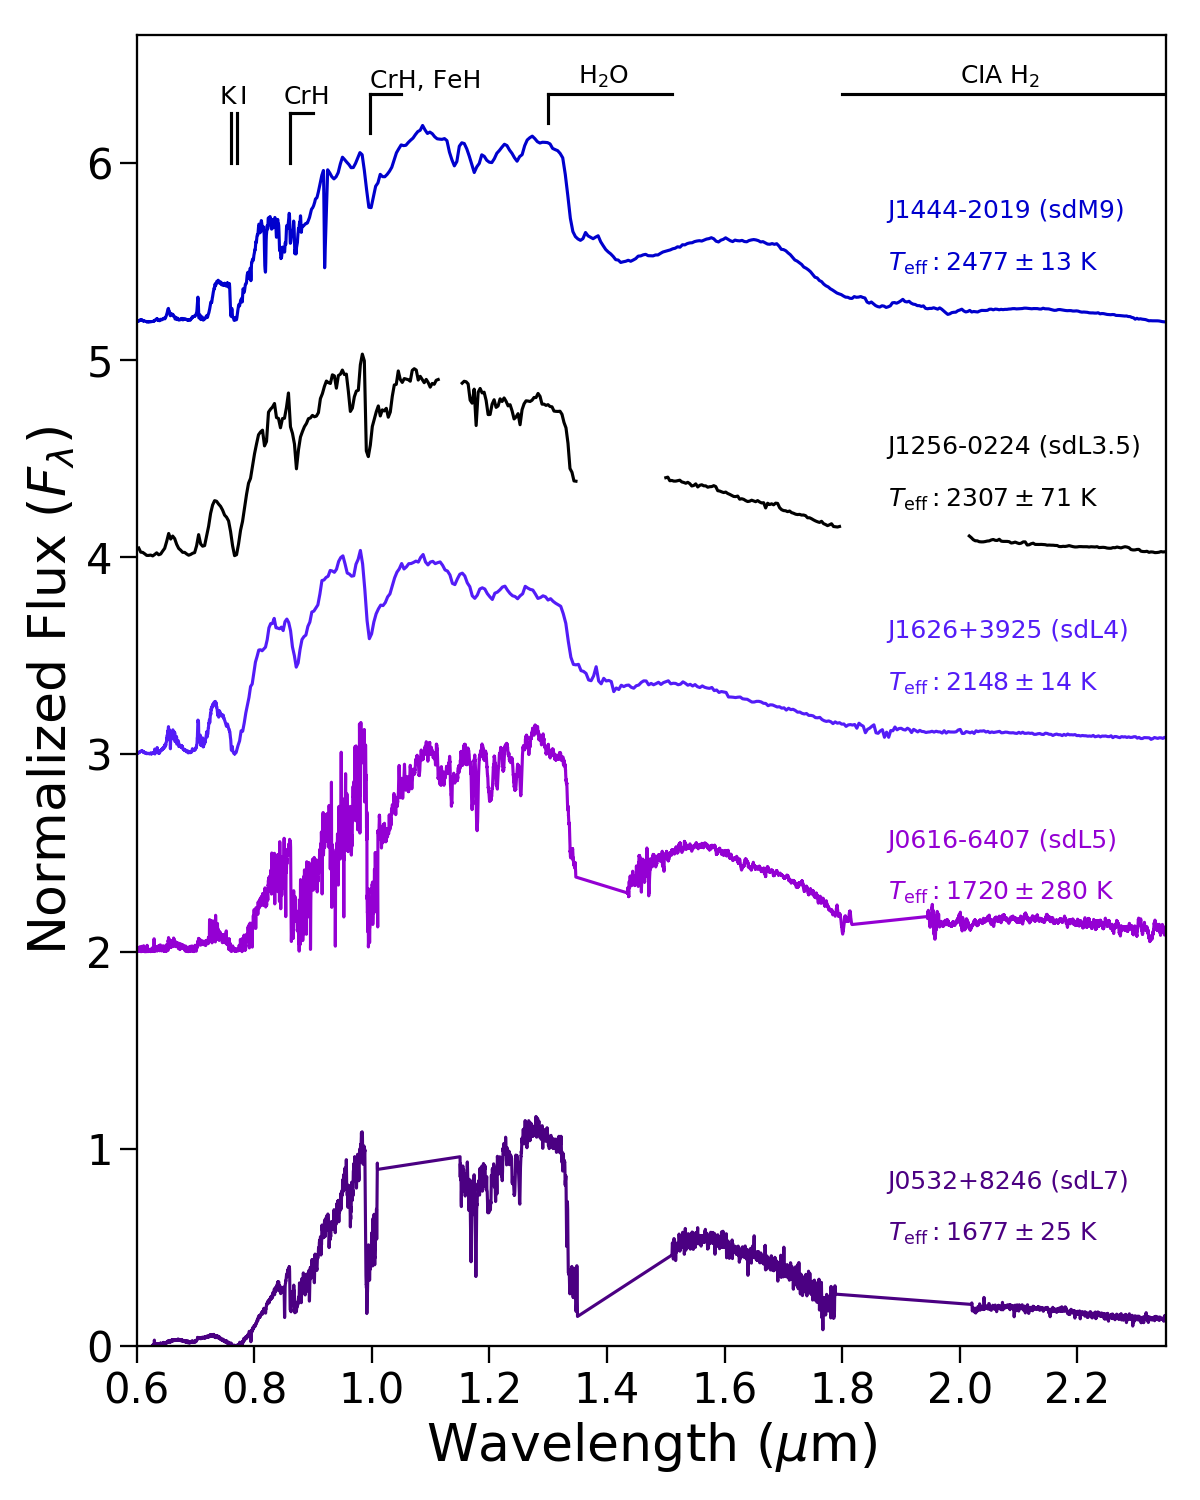
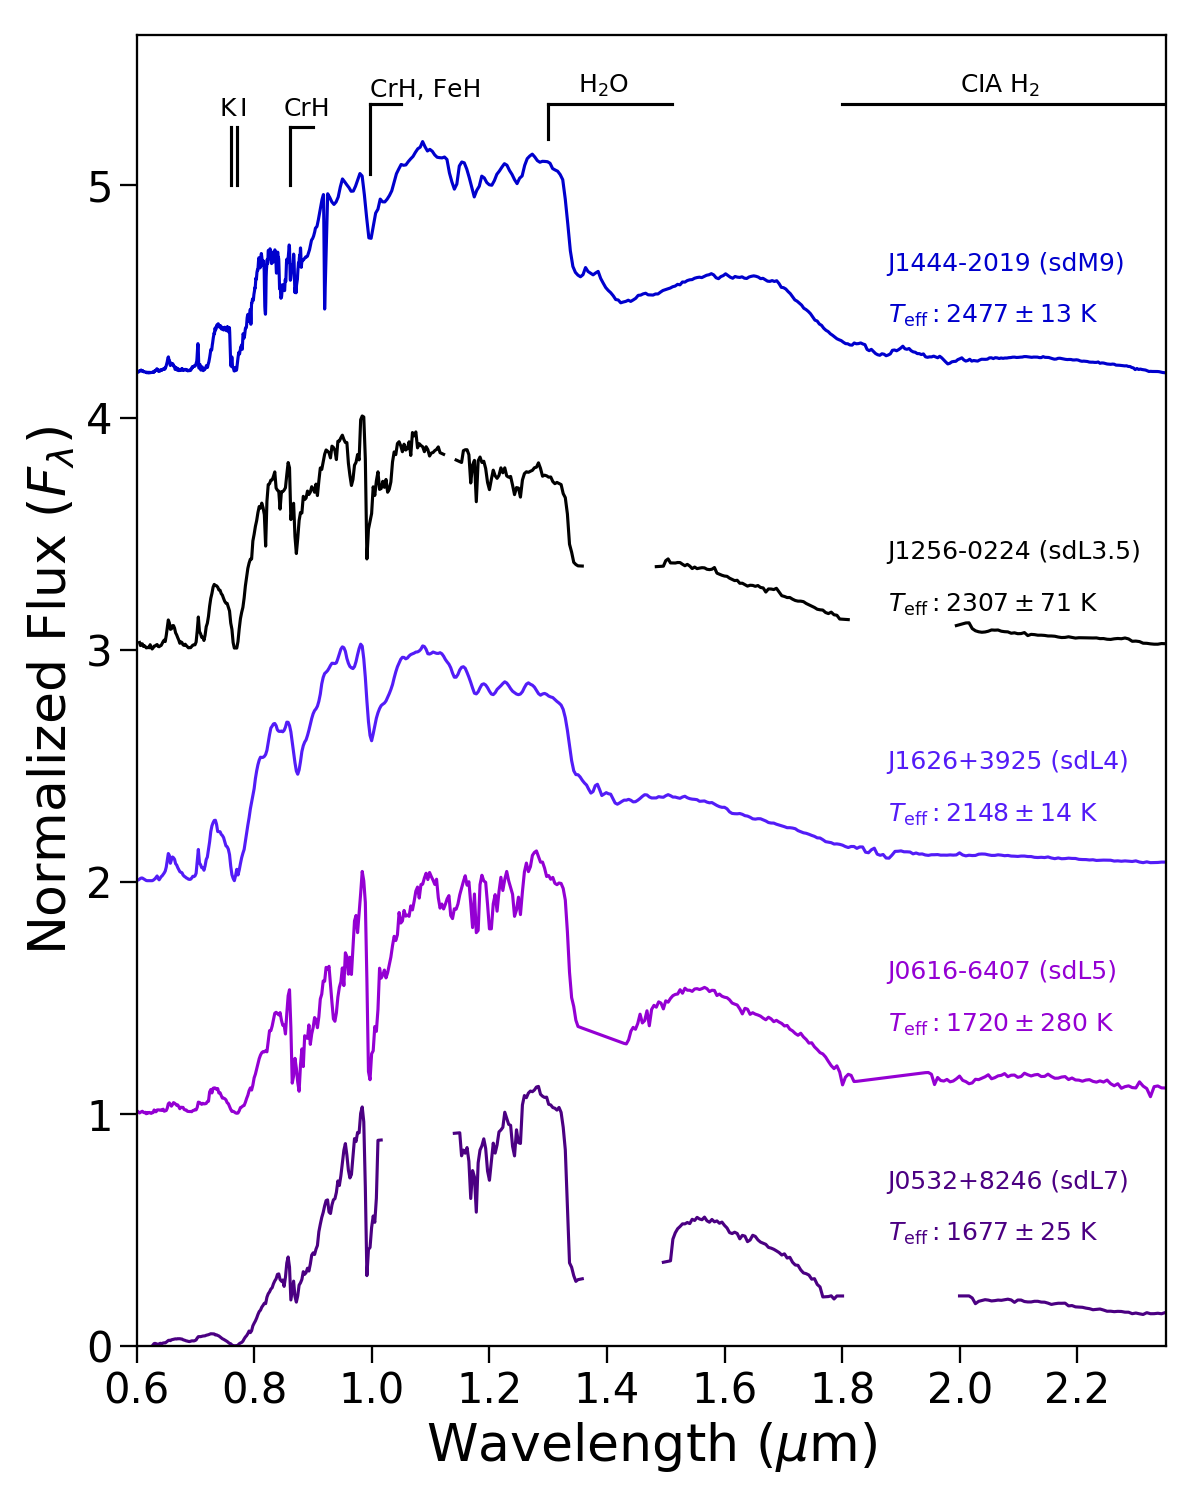
Final smoothed paths added

diff --git a/FullspectraSubdwarfs.py b/FullspectraSubdwarfs.py
@@ -8,38 +8,40 @@ import numpy as np
 # Read  all in as pandas dataframes
 # None for 1256-1408, and 1425 can't be normalized in this region, choosing to show HD instead.
 
-df_1256 = pd.read_csv('Data/Smoothed_data/Subdwarfs_overall_smoothed/correctpi1256-0224 (L3.5sd) SED_smoothed.txt',
-                      sep=",", comment='#', header=None, names=["w", "f", "err"])
+df_1256 = pd.read_csv('Data/Smoothed_data/Eileen_spectra_output/Subdwarfs_corrected/Gaia1256-0224 (L3.5sd) SED_smoothed.txt',
+                      sep=" ", comment='#', header=None, names=["w", "f", "err"])
 
 # -------------- Subdwarfs ----------------------------------
-df_0532 = pd.read_csv('Data/SDSS_phot0532+8246 (L7sd) SED.txt', sep=" ",
+df_0532 = pd.read_csv('Data/Smoothed_data/Eileen_spectra_output/Subdwarfs_corrected/SDSS_phot0532+8246 (L7sd) SED_smoothed.txt', sep=" ",
                       comment='#', header=None, names=["w", "f", "err"])
-df_0616 = pd.read_csv('Data/X-shooter0616-6407 (L5sd) SED.txt', sep=" ",
+df_0616 = pd.read_csv('Data/Smoothed_data/Eileen_spectra_output/Subdwarfs_corrected/X-shooter0616-6407 (L5sd) SED_smoothed.txt', sep=" ",
                       comment='#', header=None, names=["w", "f", "err"])
-df_1013 = pd.read_csv('Data/Smoothed_data/Subdwarfs_overall_smoothed/1013-1356 (M9.5sd) SED_smoothed.txt', sep=",",
+df_1013 = pd.read_csv('Data/Smoothed_data/Eileen_spectra_output/Subdwarfs_corrected/Gaia1013-1356 (M9.5sd) SED_smoothed.txt', sep=" ",
                       comment='#', header=None, names=["w", "f", "err"])
 # df_125614 = pd.read_csv('', sep=" ", comment='#', header=None, names=["w", "f", "err"])
-df_HD = pd.read_csv('Data/HD114762B (M9sd) SED.txt', sep=" ", comment='#', header=None, names=["w", "f", "err"])
+df_HD = pd.read_csv('Data/Smoothed_data/Eileen_spectra_output/Subdwarfs_corrected/HD114762B (M9sd) SED_smoothed.txt',
+                    sep=" ", comment='#', header=None, names=["w", "f", "err"])
 # df_1425 = pd.read_csv('Data/1425+7102 (M8sd) SED.txt', sep=" ", comment='#', header=None, names=["w", "f", "err"])
-df_LHS = pd.read_csv('Data/Smoothed_data/Subdwarfs_overall_smoothed/1439+1839 (M7sd) SED_smoothed.txt', sep=",",
+df_LHS = pd.read_csv('Data/Smoothed_data/Eileen_spectra_output/Subdwarfs_corrected/Gaia1439+1839 (M7sd) SED_smoothed.txt', sep=" ",
                      comment='#', header=None, names=["w", "f", "err"])
 df_1444 = pd.read_csv('Data/1444-2019 (M9sd) SED.txt', sep=" ", comment='#', header=None, names=["w", "f", "err"])
-df_1610 = pd.read_csv('Data/Smoothed_data/Subdwarfs_overall_smoothed/1610-0040 (M7sd) SED_smoothed.txt', sep=",",
+df_1610 = pd.read_csv('Data/Smoothed_data/Eileen_spectra_output/Subdwarfs_corrected/Gaia1610-0040 (M7sd) SED_smoothed.txt', sep=" ",
                       comment='#', header=None, names=["w", "f", "err"])
-df_1626 = pd.read_csv('Data/1626+3925 (L4sd) SED.txt', sep=" ", comment='#', header=None, names=["w", "f", "err"])
-df_2036 = pd.read_csv('Data/Smoothed_data/Subdwarfs_overall_smoothed/2036+5059 (M7.5sd) SED_smoothed.txt', sep=",",
+df_1626 = pd.read_csv('Data/Smoothed_data/Eileen_spectra_output/Subdwarfs_corrected/Gaia1626+3925 (L4sd) SED_smoothed.txt',
+                      sep=" ", comment='#', header=None, names=["w", "f", "err"])
+df_2036 = pd.read_csv('Data/Smoothed_data/Eileen_spectra_output/Subdwarfs_corrected/2036+5059 (M7.5sd) SED_smoothed.txt', sep=" ",
                       comment='#', header=None, names=["w", "f", "err"])
 
 # ------------------------------------------------------------------------------------
 # ------------------- Fix files to read all columns as Floats-------------------------
-# ------------------------------------------------------------------------------------
-df_1256 = df_1256.astype(float)
-#df_0532 = df_0532.astype(float)
-#df_0616 = df_0616.astype(float)
-df_1013 = df_1013.astype(float)
-df_LHS = df_LHS.astype(float)
-df_1610 = df_1610.astype(float)
-df_2036 = df_2036.astype(float)
+# # ------------------------------------------------------------------------------------
+# df_1256 = df_1256.astype(float)
+# #df_0532 = df_0532.astype(float)
+# #df_0616 = df_0616.astype(float)
+# df_1013 = df_1013.astype(float)
+# df_LHS = df_LHS.astype(float)
+# df_1610 = df_1610.astype(float)
+# df_2036 = df_2036.astype(float)
 
 # -------------------------------------------------------------------------------------
 # ---------------------- Remove Tails ------------------------------------------------
@@ -99,7 +101,7 @@ plt.gcf().subplots_adjust(bottom=0.15, left=0.15)
 for axis in ['top', 'bottom', 'left', 'right']:  # Thicken the frame
     ax1.spines[axis].set_linewidth(1.1)
 plt.xlim([0.6, 2.35])
-plt.ylim([0, 6.65])
+plt.ylim([0, 5.65])
 
 # ------ Axes Labels --------
 ax1.tick_params(axis='both', labelsize=20, length=8, width=1.1)
@@ -109,10 +111,10 @@ plt.ylabel('Normalized Flux ($F_\lambda$)', fontsize=25)
 
 # -------- Add data -----------
 ax1.plot(df_0532['w'], norm_df_0532, c='indigo')                                # sdL7 1647
-ax1.plot(df_0616['w'], norm_df_0616 + 2, c='darkviolet')                        # sdL5 1731
-ax1.plot(df_1626['w'], norm_df_1626 + 3, c='#531CF7')                           # sdL4 2158
-ax1.plot(df_1256['w'], norm_df_1256 + 4, c='k')                                 # sdL3.5  2344
-ax1.plot(df_1444['w'], norm_df_1444 + 5, c='mediumblue')                        # sdM9 2359
+ax1.plot(df_0616['w'], norm_df_0616 + 1, c='darkviolet')                        # sdL5 1731
+ax1.plot(df_1626['w'], norm_df_1626 + 2, c='#531CF7')                           # sdL4 2158
+ax1.plot(df_1256['w'], norm_df_1256 + 3, c='k')                                 # sdL3.5  2344
+ax1.plot(df_1444['w'], norm_df_1444 + 4, c='mediumblue')                        # sdM9 2359
 # ax1.plot(df_1013['w'], norm_df_1013 + 5, c='#015DF7')                         # sdM9.5 2457
 # ax1.plot(df_LHS['w'], norm_df_LHS + 6, c='#01A1D6')                           # sdM7 2748
 # # ax1.plot(df_1425['w'], norm_df_1425, c='#09D5D6')                           # sdM8 2822      only MIR spectra
@@ -124,62 +126,62 @@ ax1.plot(df_1444['w'], norm_df_1444 + 5, c='mediumblue')                        
 # -------- Label a few features --------------
 KII = pd.DataFrame()
 KII['x'] = [0.76, 0.76]
-KII['y'] = [6, 6.25]
+KII['y'] = [5, 5.25]
 ax1.plot(KII['x'], KII['y'], color='k')
 KII2 = pd.DataFrame()
 KII2['x'] = [0.7699, 0.7699]
-KII2['y'] = [6, 6.25]
+KII2['y'] = [5, 5.25]
 ax1.plot(KII2['x'], KII2['y'], color='k')
-ax1.annotate('K$\,$I', xy=(0.74, 6.3), color='k', fontsize=12)
+ax1.annotate('K$\,$I', xy=(0.74, 5.3), color='k', fontsize=12)
 
 CrH = pd.DataFrame()
 CrH['x'] = [0.8611, 0.9]
-CrH['y'] = [6.25, 6.25]
+CrH['y'] = [5.25, 5.25]
 ax1.plot(CrH['x'], CrH['y'], color='k')
 CrHd = pd.DataFrame()
 CrHd['x'] = [0.8611, 0.8611]
-CrHd['y'] = [6, 6.25]
+CrHd['y'] = [5, 5.25]
 ax1.plot(CrHd['x'], CrHd['y'], color='k')
-ax1.annotate('CrH', xy=(0.85, 6.3), color='k', fontsize=12)
+ax1.annotate('CrH', xy=(0.85, 5.3), color='k', fontsize=12)
 
 CrH2 = pd.DataFrame()
 CrH2['x'] = [0.9969, 1.05]
-CrH2['y'] = [6.35, 6.35]
+CrH2['y'] = [5.35, 5.35]
 ax1.plot(CrH2['x'], CrH2['y'], color='k')
 CrHd2 = pd.DataFrame()
 CrHd2['x'] = [0.9969, 0.9969]
-CrHd2['y'] = [6.15, 6.35]
+CrHd2['y'] = [5.05, 5.35]
 ax1.plot(CrHd2['x'], CrHd2['y'], color='k')
-ax1.annotate('CrH, FeH', xy=(0.996, 6.38), color='k', fontsize=12)
+ax1.annotate('CrH, FeH', xy=(0.996, 5.38), color='k', fontsize=12)
 
 H2O = pd.DataFrame()
 H2O['x'] = [1.3, 1.51]
-H2O['y'] = [6.35, 6.35]
+H2O['y'] = [5.35, 5.35]
 ax1.plot(H2O['x'], H2O['y'], color='k')
 H2Od = pd.DataFrame()
 H2Od['x'] = [1.3, 1.3]
-H2Od['y'] = [6.2, 6.35]
+H2Od['y'] = [5.2, 5.35]
 ax1.plot(H2Od['x'], H2Od['y'], color='k')
-ax1.annotate('H$_\mathrm{2} $O', xy=(1.35, 6.4), color='k', fontsize=12)
+ax1.annotate('H$_\mathrm{2} $O', xy=(1.35, 5.4), color='k', fontsize=12)
 
 CIA = pd.DataFrame()
 CIA['x'] = [1.8, 2.8]
-CIA['y'] = [6.35, 6.35]
+CIA['y'] = [5.35, 5.35]
 ax1.plot(CIA['x'], CIA['y'], color='k')
-ax1.annotate('CIA H$_\mathrm{2} $', xy=(2, 6.4), color='k', fontsize=12)
+ax1.annotate('CIA H$_\mathrm{2} $', xy=(2, 5.4), color='k', fontsize=12)
 
 # ------- Label Sources -------------
 # not alot of space to label
 ax1.text(0.73, 0.12, 'J0532+8246 (sdL7)', transform=ax1.transAxes, color='indigo', fontsize=12)
 ax1.text(0.73, 0.08, '$T_\mathrm{eff}: 1677 \pm 25$ K ', transform=ax1.transAxes, color='indigo',fontsize=12)
-ax1.text(0.73, 0.38, 'J0616-6407 (sdL5)', transform=ax1.transAxes, color='darkviolet', fontsize=12)
-ax1.text(0.73, 0.34, '$T_\mathrm{eff}: 1720 \pm 280$ K ', transform=ax1.transAxes, color='darkviolet',fontsize=12)
-ax1.text(0.73, 0.54, 'J1626+3925 (sdL4)', transform=ax1.transAxes, color='#531CF7', fontsize=12)
-ax1.text(0.73, 0.5, '$T_\mathrm{eff}: 2148 \pm 14$ K', transform=ax1.transAxes, color='#531CF7', fontsize=12)
-ax1.text(0.73, 0.68, 'J1256-0224 (sdL3.5)', transform=ax1.transAxes, color='k', fontsize=12)
-ax1.text(0.73, 0.64, '$T_\mathrm{eff}: 2307 \pm 71$ K', transform=ax1.transAxes, color='k', fontsize=12)
-ax1.text(0.73, 0.86, 'J1444-2019 (sdM9)', transform=ax1.transAxes, color='mediumblue', fontsize=12)
-ax1.text(0.73, 0.82, '$T_\mathrm{eff}: 2477 \pm 13$ K', transform=ax1.transAxes, color='mediumblue', fontsize=12)
+ax1.text(0.73, 0.28, 'J0616-6407 (sdL5)', transform=ax1.transAxes, color='darkviolet', fontsize=12)
+ax1.text(0.73, 0.24, '$T_\mathrm{eff}: 1720 \pm 280$ K ', transform=ax1.transAxes, color='darkviolet',fontsize=12)
+ax1.text(0.73, 0.44, 'J1626+3925 (sdL4)', transform=ax1.transAxes, color='#531CF7', fontsize=12)
+ax1.text(0.73, 0.4, '$T_\mathrm{eff}: 2148 \pm 14$ K', transform=ax1.transAxes, color='#531CF7', fontsize=12)
+ax1.text(0.73, 0.6, 'J1256-0224 (sdL3.5)', transform=ax1.transAxes, color='k', fontsize=12)
+ax1.text(0.73, 0.56, '$T_\mathrm{eff}: 2307 \pm 71$ K', transform=ax1.transAxes, color='k', fontsize=12)
+ax1.text(0.73, 0.82, 'J1444-2019 (sdM9)', transform=ax1.transAxes, color='mediumblue', fontsize=12)
+ax1.text(0.73, 0.78, '$T_\mathrm{eff}: 2477 \pm 13$ K', transform=ax1.transAxes, color='mediumblue', fontsize=12)
 
 plt.tight_layout()
 plt.savefig('Plots/Subdwarfs_secondpannel.png', dpi=150)
